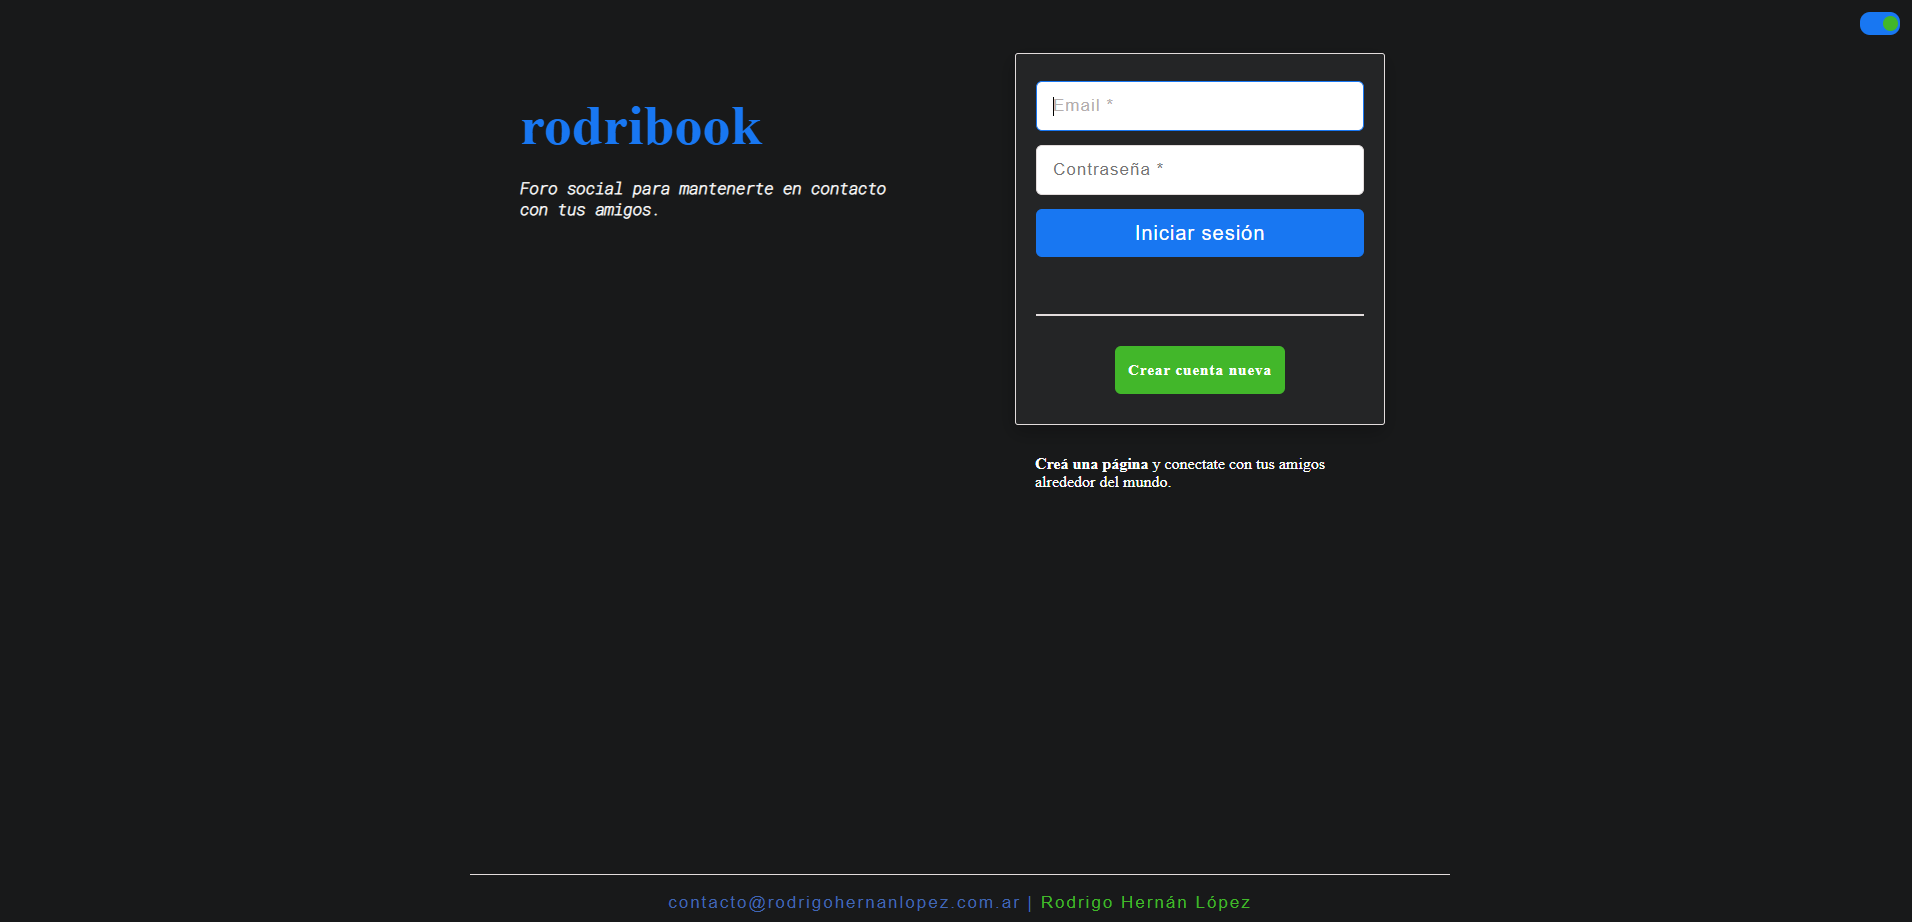
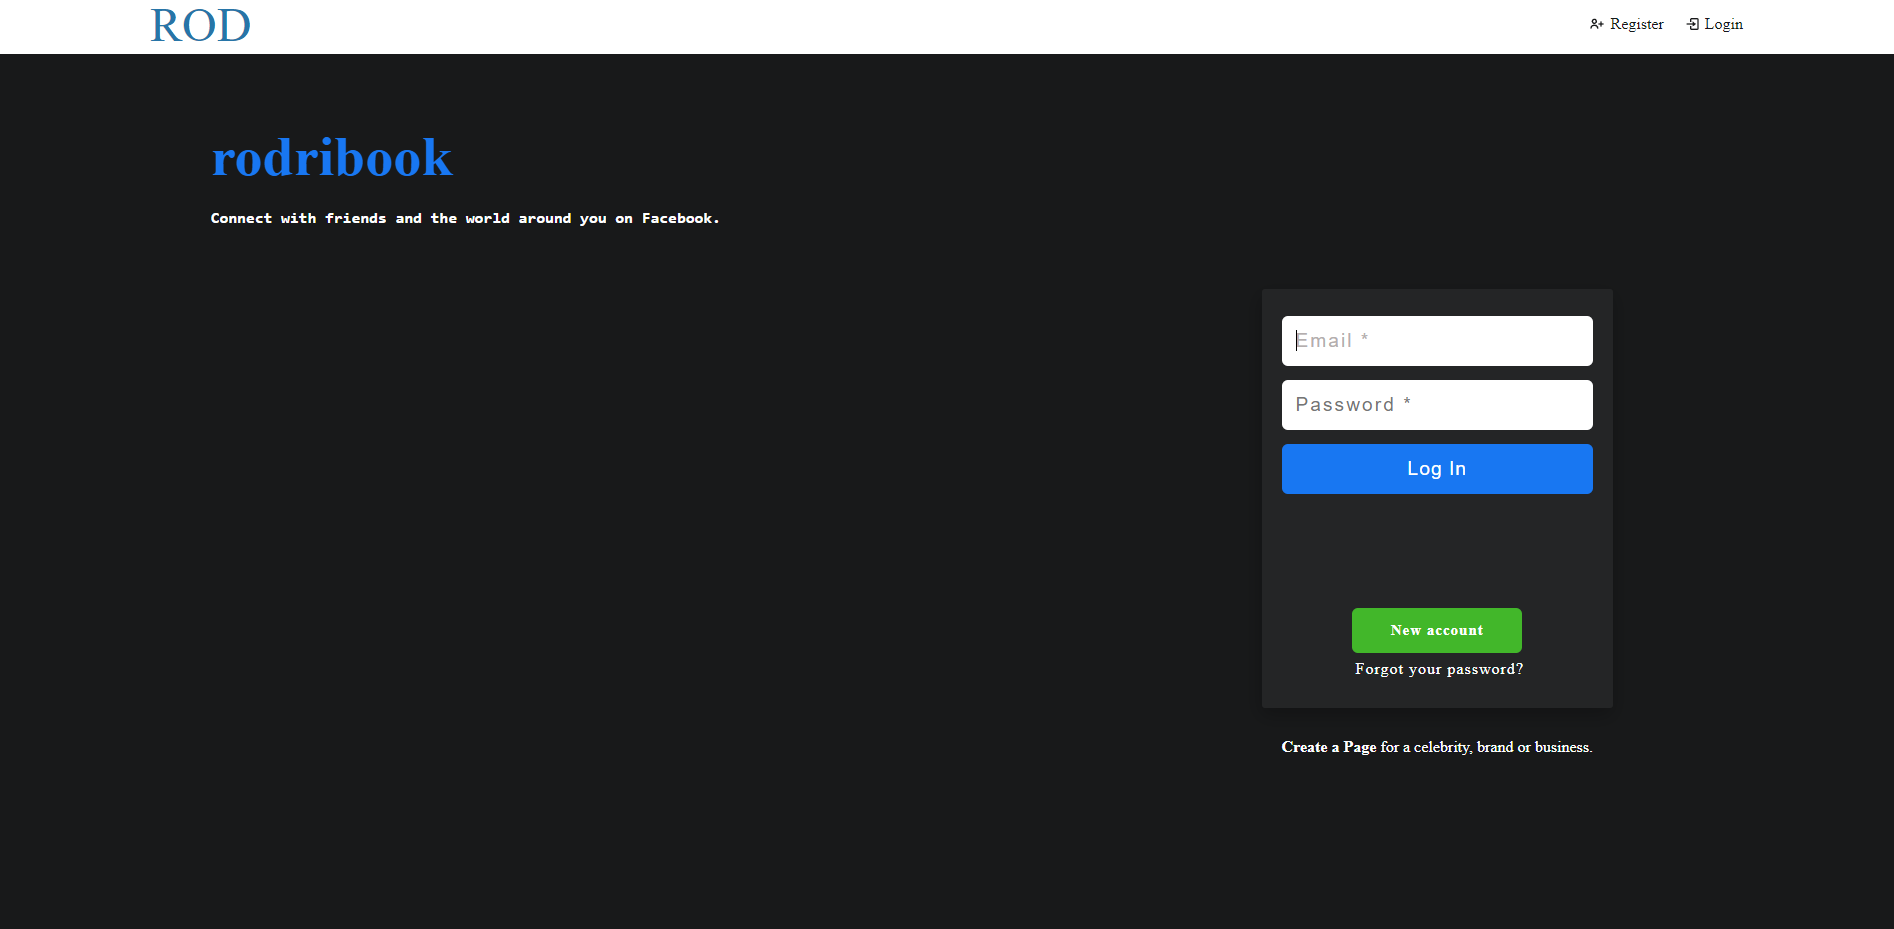
updated projects

diff --git a/front/src/components/Projects/dataProjects.js b/front/src/components/Projects/dataProjects.js
@@ -14,22 +14,23 @@ export const dataProjects = [
     github: "",
     web: "https://www.perfumeriamundial.ar/",
   },
+
   {
     descripcion: "",
-    img: "/img/typescript-react.png",
+    img: "/img/rodribook.png",
     alt: "",
     tecnologias: [
-      "React",
-      "Redux-Thunk",
       "Typescript",
-      "JWT",
-      "Node",
-      "Styled-components",
+      "Socket.io",
+      "Firebase",
+      "Redux Thunk",
+      "Cloudinary",
     ],
-    titulo: "",
-    github: "https://github.com/CarelessAsado/Typescript-React-firstApp",
-    web: "https://amazing-wright-70ac6b.netlify.app/",
+    titulo: "RODRIBOOK WEBSITE",
+    github: "https://github.com/CarelessAsado/firebase_nested_comments",
+    web: "https://bright-fudge-e510f2.netlify.app/",
   },
+
   {
     descripcion: "",
     img: "/img/Portfolio.png",
@@ -39,37 +40,9 @@ export const dataProjects = [
     github: "https://github.com/CarelessAsado/PORTFOLIO-TRANSLATED-INTO-REACT",
     web: "https://www.rodrigohernanlopez.com.ar/",
   },
+
   {
     descripcion: "",
-    img: "/img/React+JWT.png",
-    alt: "",
-    tecnologias: ["React", "Nodejs", "JWT", "Mongoose"],
-    titulo: "PROYECTO MERN",
-    github: "https://github.com/CarelessAsado/MERN-TaskManagement",
-    web: "https://frosty-archimedes-bb3dfe.netlify.app/",
-  },
-  {
-    descripcion:
-      "Recreación del famoso sitio. Previo registro e inicio de sesión, los usuarios pueden acceder a un muro público para escribir mensajes, así como acceder de manera privada a su información de usuario y editarla.",
-    img: "/img/rodribook.png",
-    alt: "proyecto Rodribook",
-    tecnologias: ["Nodejs", "Express-sessions", "MongoDb", "Mongoose"],
-    titulo: "RODRIBOOK WEBSITE",
-    github: "https://github.com/CarelessAsado/rodribook",
-    web: "",
-  },
-  {
-    descripcion:
-      "Juego de blackjack que tomé como base del sitio Free Code Camp, y que luego fui adaptando: notificaciones sobre el estado de la partida, un bot dealer, interfaz para realizar apuestas, etc.",
-    img: "/img/blackjack.png",
-    alt: "proyecto Blackjack",
-    tecnologias: ["Javascript", "HTML", "CSS"],
-    titulo: "BLACKJACK GAME",
-    github: "https://github.com/CarelessAsado/jackblack",
-    web: "https://carelessasado.github.io/jackblack/",
-  },
-  {
-    descripcion: "Mi primer sitio web.",
     img: "/img/rohelaw.com.ar.png",
     alt: "proyecto Rohelaw",
     tecnologias: ["Javascript", "HTML", "CSS"],
